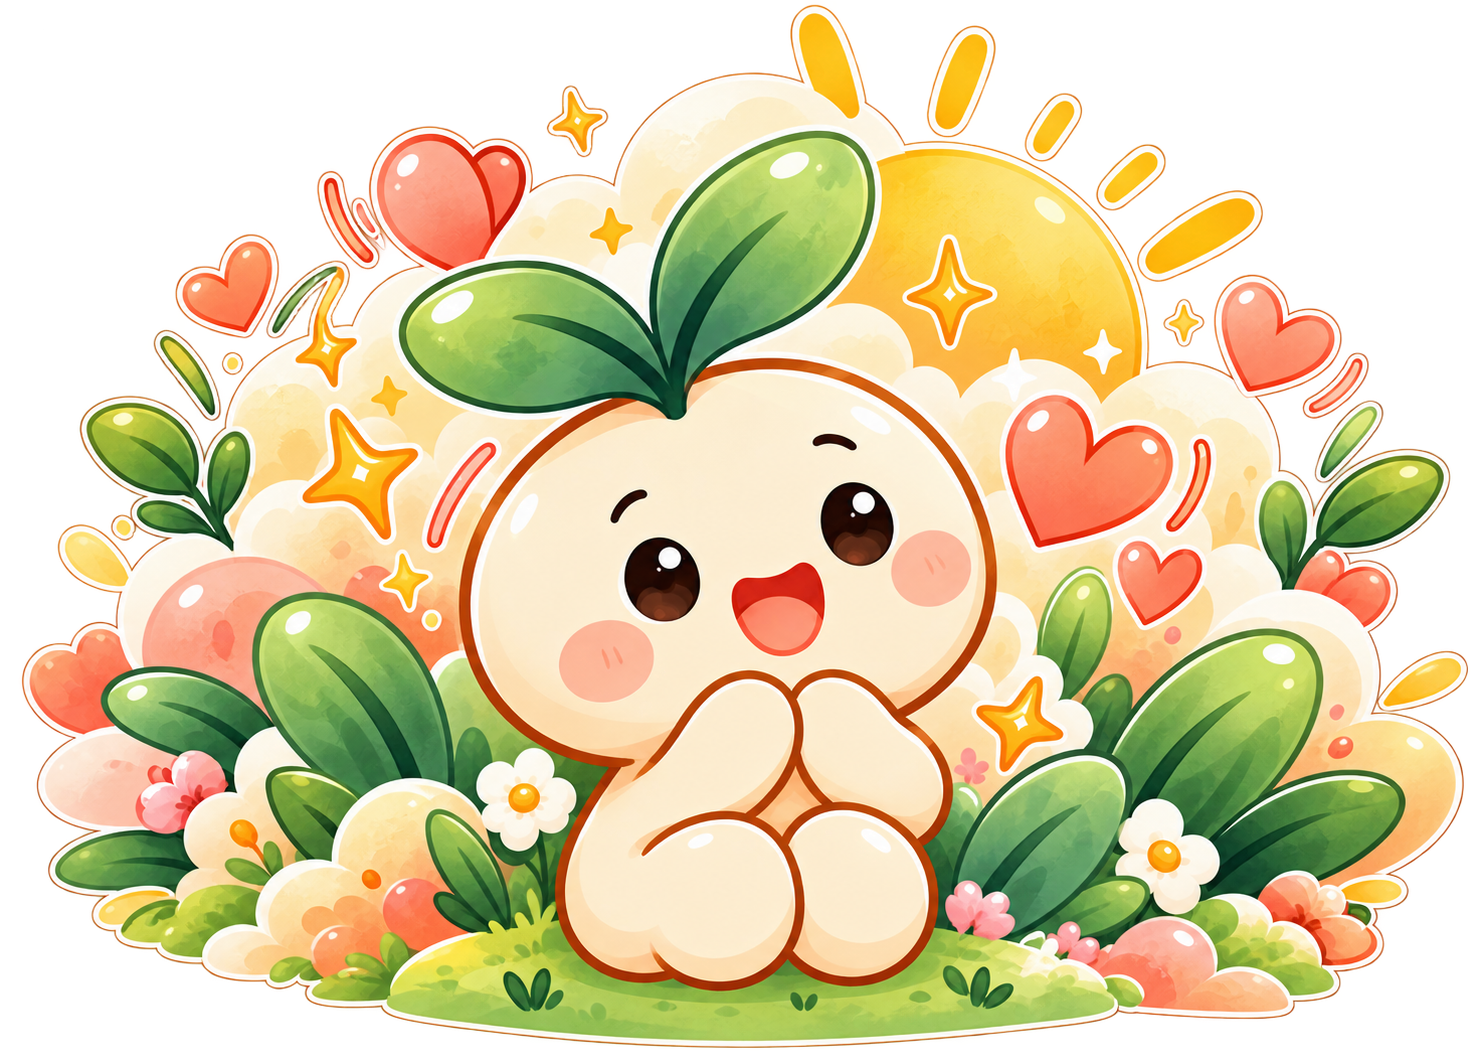
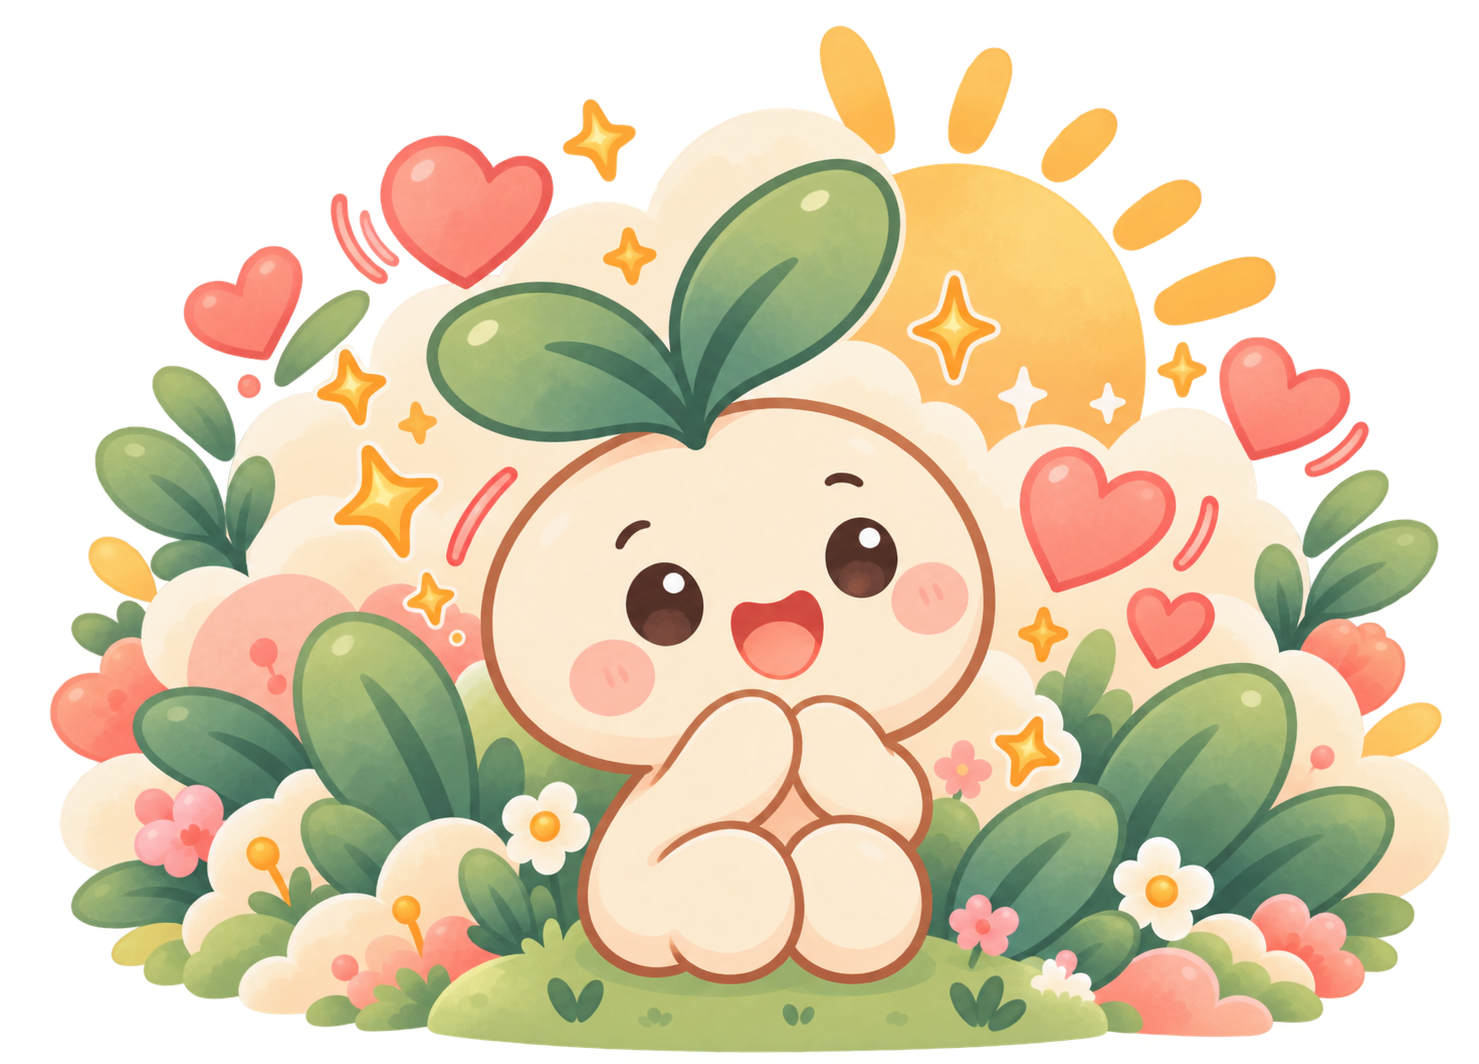
update emoji

diff --git a/src/app/[locale]/(protected)/moodlog/check-in-form.tsx b/src/app/[locale]/(protected)/moodlog/check-in-form.tsx
@@ -1177,29 +1177,29 @@ export default function CheckInForm({ locale, userName }: Props) {
 }
 
 const emotionImages: Record<string, string> = {
-  happy: "/emotions-emoji/happy.png",
+  happy: "/emotions-emoji/happy.webp",
 
-  loved: "/emotions-emoji/loved.png",
+  loved: "/emotions-emoji/loved.webp",
 
-  excited: "/emotions-emoji/excited.png",
+  excited: "/emotions-emoji/excited.webp",
 
   hopeful: "/emotions-emoji/hopefulrev.png",
 
-  calm: "/emotions-emoji/calm.png",
+  calm: "/emotions-emoji/calm.webp",
 
-  tired: "/emotions-emoji/tired.png",
+  tired: "/emotions-emoji/tired.webp",
 
-  anxious: "/emotions-emoji/anxious.png",
+  anxious: "/emotions-emoji/anxious.webp",
 
-  stressed: "/emotions-emoji/stressed.png",
+  stressed: "/emotions-emoji/stressed.webp",
 
-  angry: "/emotions-emoji/angry.png",
+  angry: "/emotions-emoji/angry.webp",
 
-  lonely: "/emotions-emoji/lonely.png",
+  lonely: "/emotions-emoji/lonely.webp",
 
-  sad: "/emotions-emoji/sad.png",
+  sad: "/emotions-emoji/sad.webp",
 
-  overwhelmed: "/emotions-emoji/overwhelmed.png",
+  overwhelmed: "/emotions-emoji/overwhelmed.webp",
 };
 
 function getEmotionImage(slug: string) {
